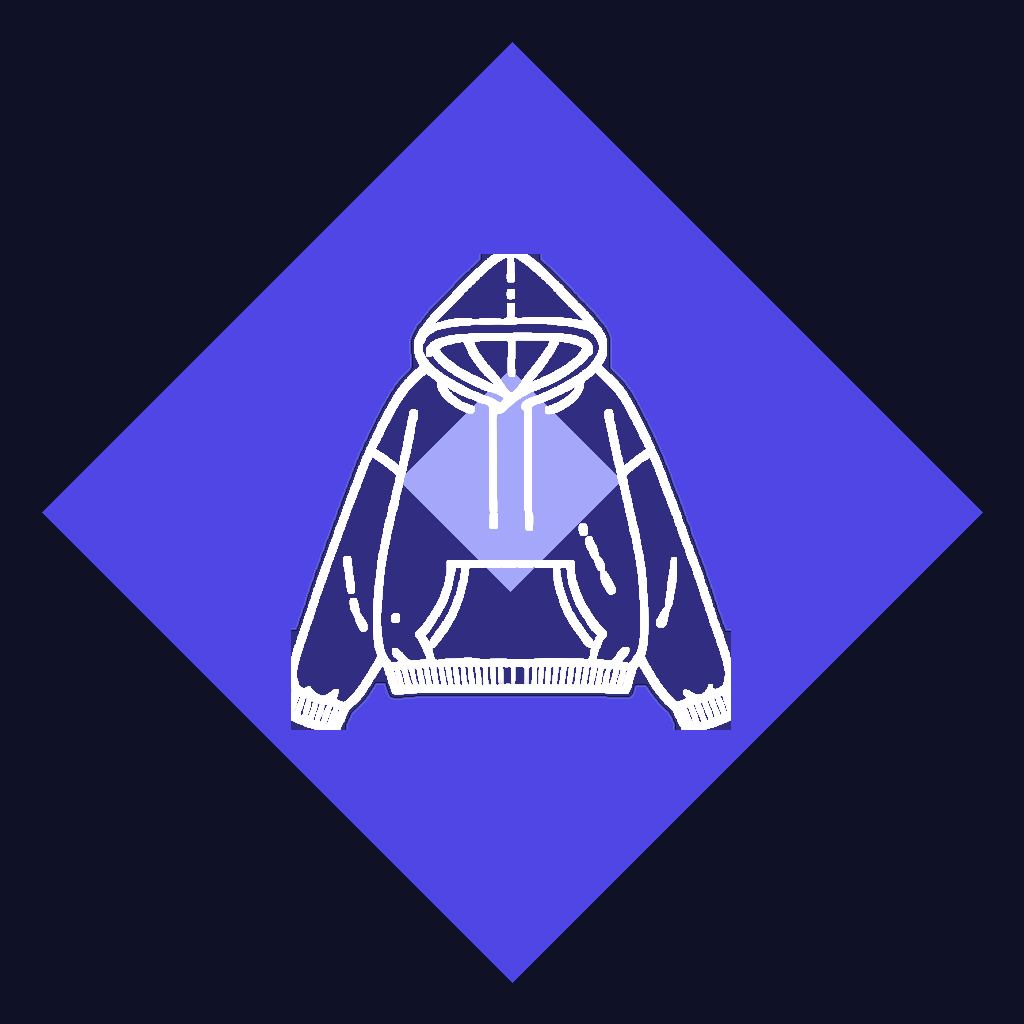
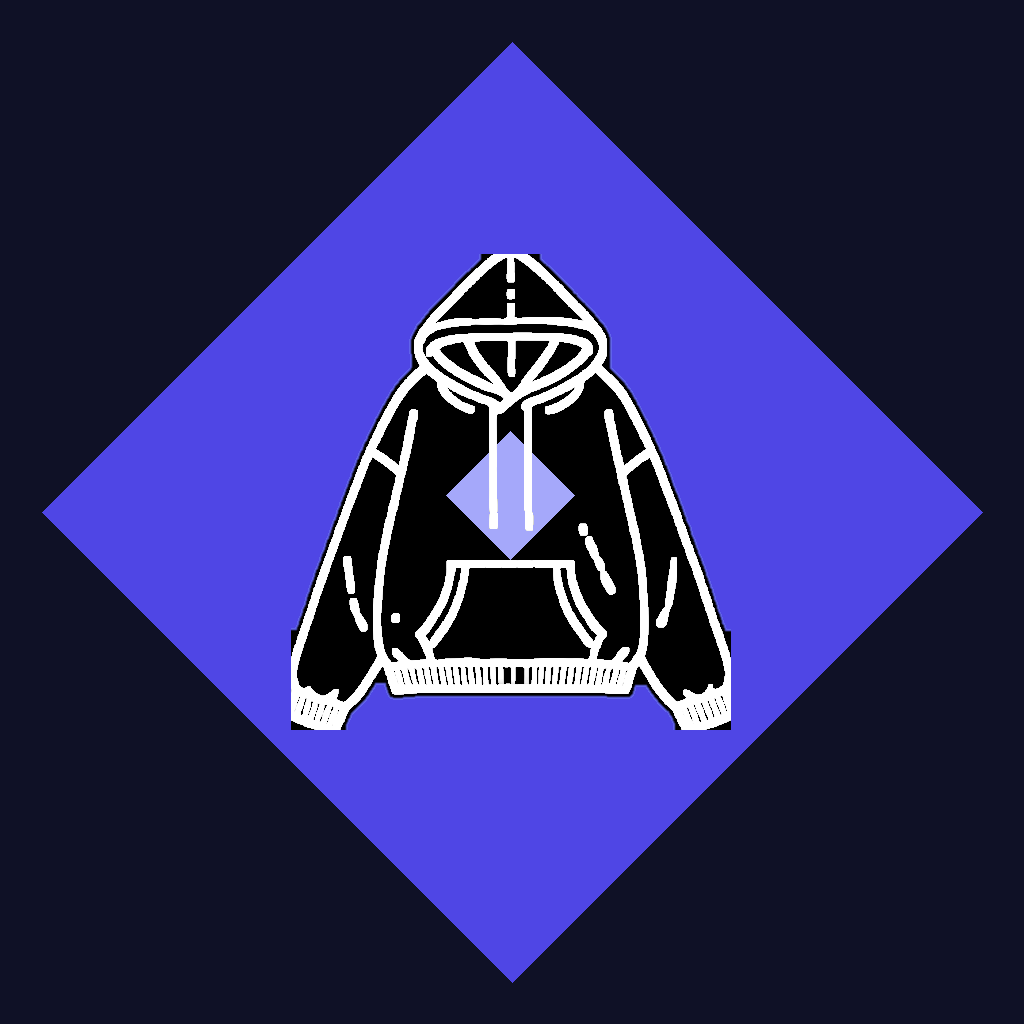
アイコン: 服の中を黒に、内側のひし形をもっと小さく（半径111→64）
内側のひし形の色は、服がなかったころのアイコンと同じ (165,168,250) のまま。服の中の真ん中に収め、
服の外へはみ出した点は0。枠のひし形は濃い紫 (79,70,229)。?v=10。

Changed region(s): [[0.2812, 0.25, 0.7188, 0.7188]]

diff --git a/index.html b/index.html
@@ -8,7 +8,7 @@
     <meta name="robots" content="noindex, nofollow">
     <title>ARELM</title>
     <link rel="stylesheet" href="css/style.css">
-    <link rel="manifest" href="manifest.json?v=9">
+    <link rel="manifest" href="manifest.json?v=10">
     <meta name="theme-color" content="#0f172a">
 
     <!-- iOS（iPhone・iPad）でホーム画面に追加したときの設定 -->
@@ -16,9 +16,9 @@
     <meta name="apple-mobile-web-app-status-bar-style" content="black-translucent">
     <meta name="apple-mobile-web-app-title" content="ARELM">
     <!-- アイコンはMacのアプリと同じ絵、名前は「ARELM」に、全端末で揃える。?v= は、各端末が古いアイコンを使い続けないため -->
-    <link rel="apple-touch-icon" sizes="180x180" href="images/apple-touch-icon.png?v=9">
-    <link rel="apple-touch-icon" sizes="512x512" href="images/icon-512x512.png?v=9">
-    <link rel="icon" type="image/png" sizes="192x192" href="images/icon-any-192x192.png?v=9">
+    <link rel="apple-touch-icon" sizes="180x180" href="images/apple-touch-icon.png?v=10">
+    <link rel="apple-touch-icon" sizes="512x512" href="images/icon-512x512.png?v=10">
+    <link rel="icon" type="image/png" sizes="192x192" href="images/icon-any-192x192.png?v=10">
 </head>
 <body>
     <div id="login-screen" class="login-screen">
